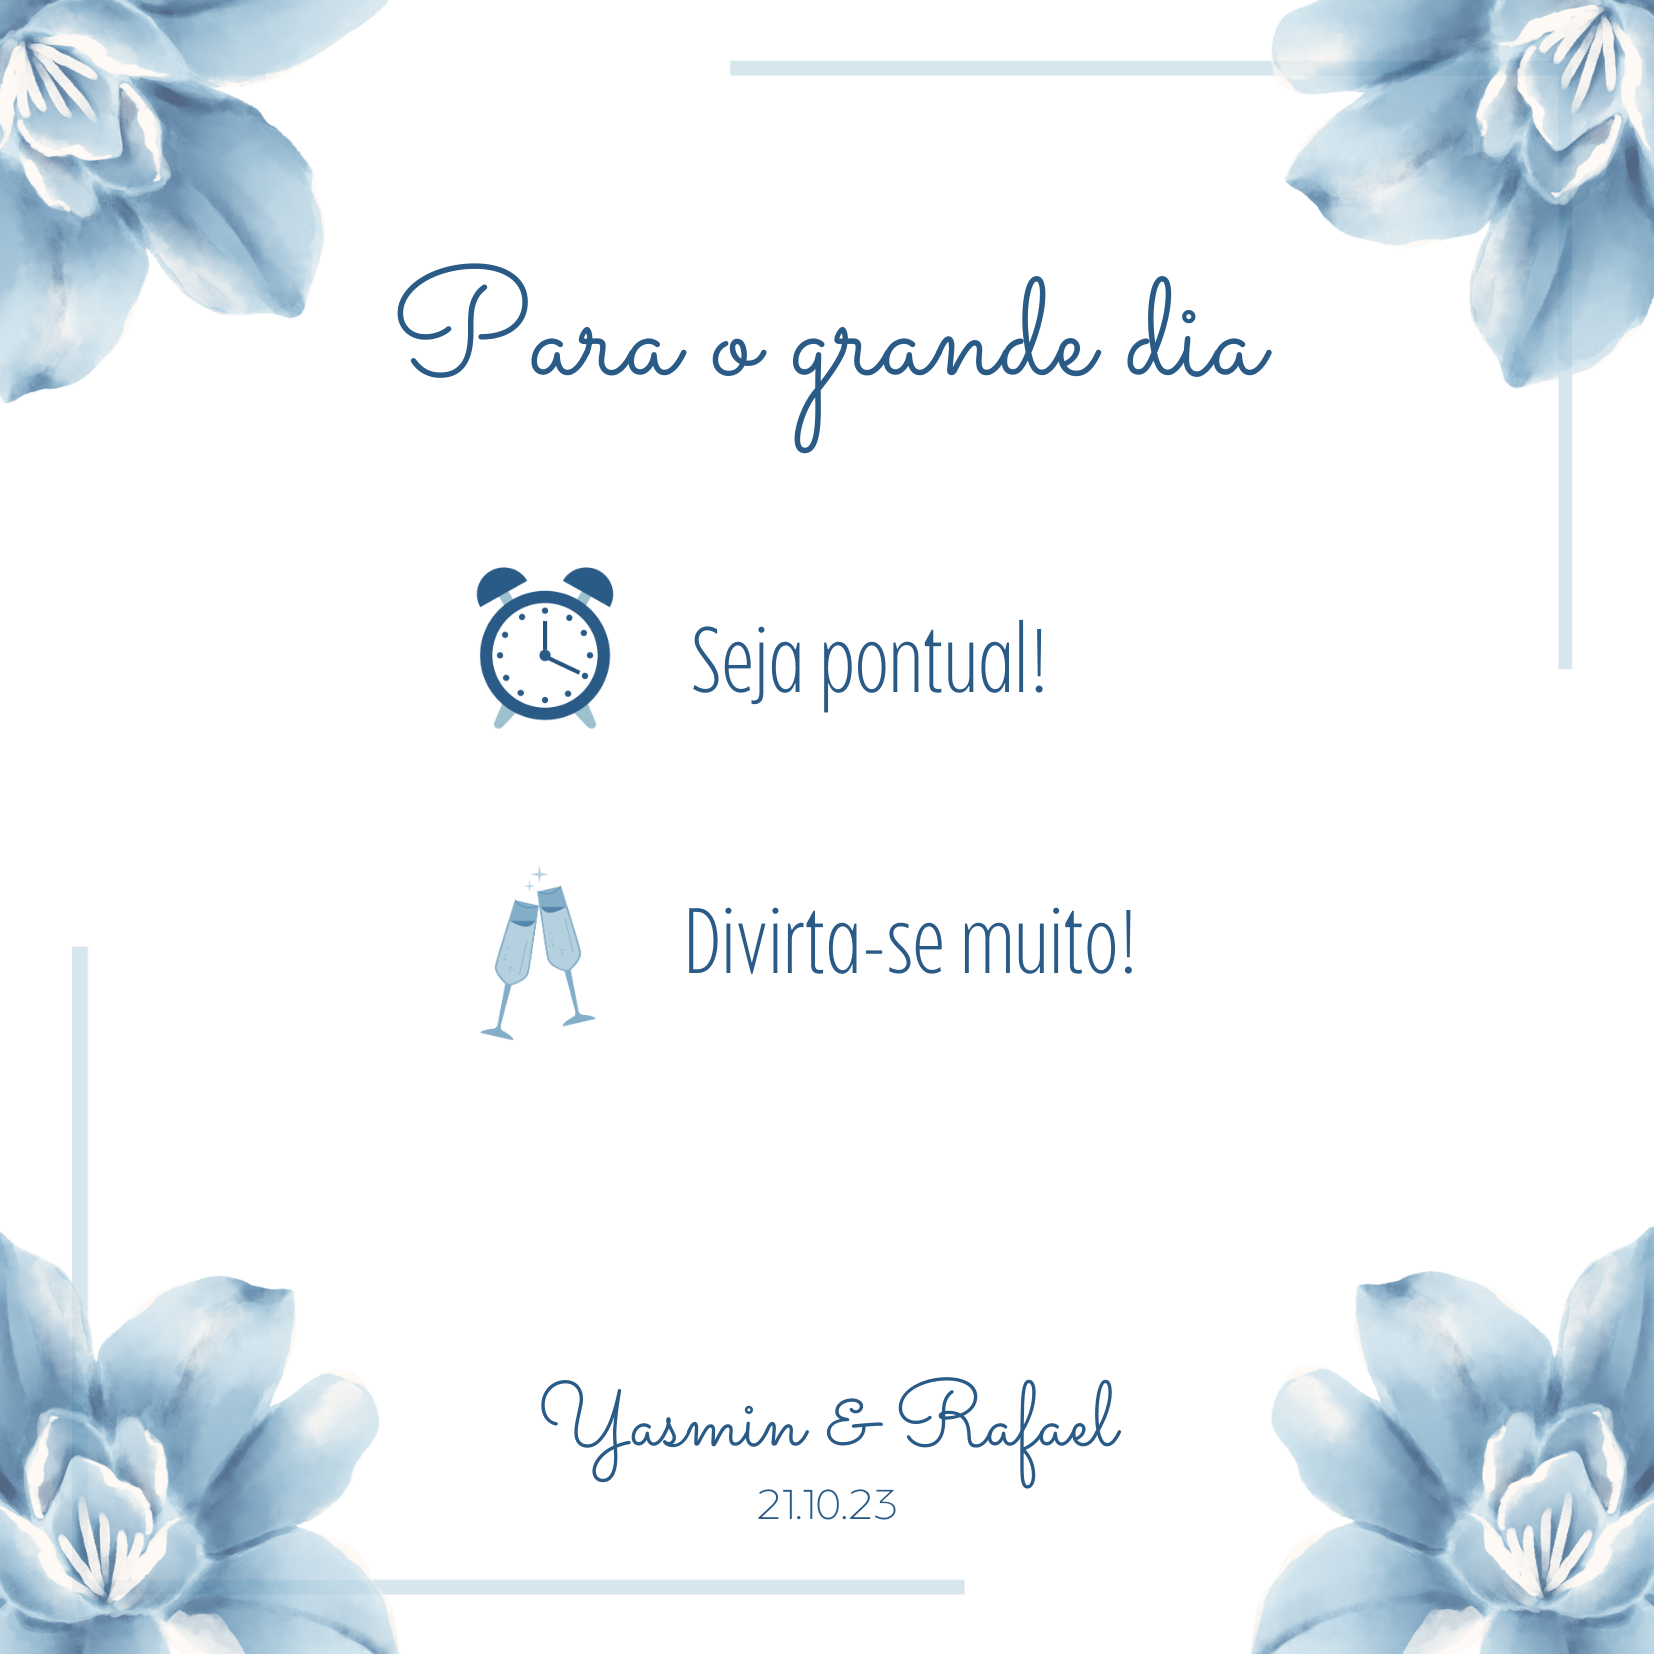
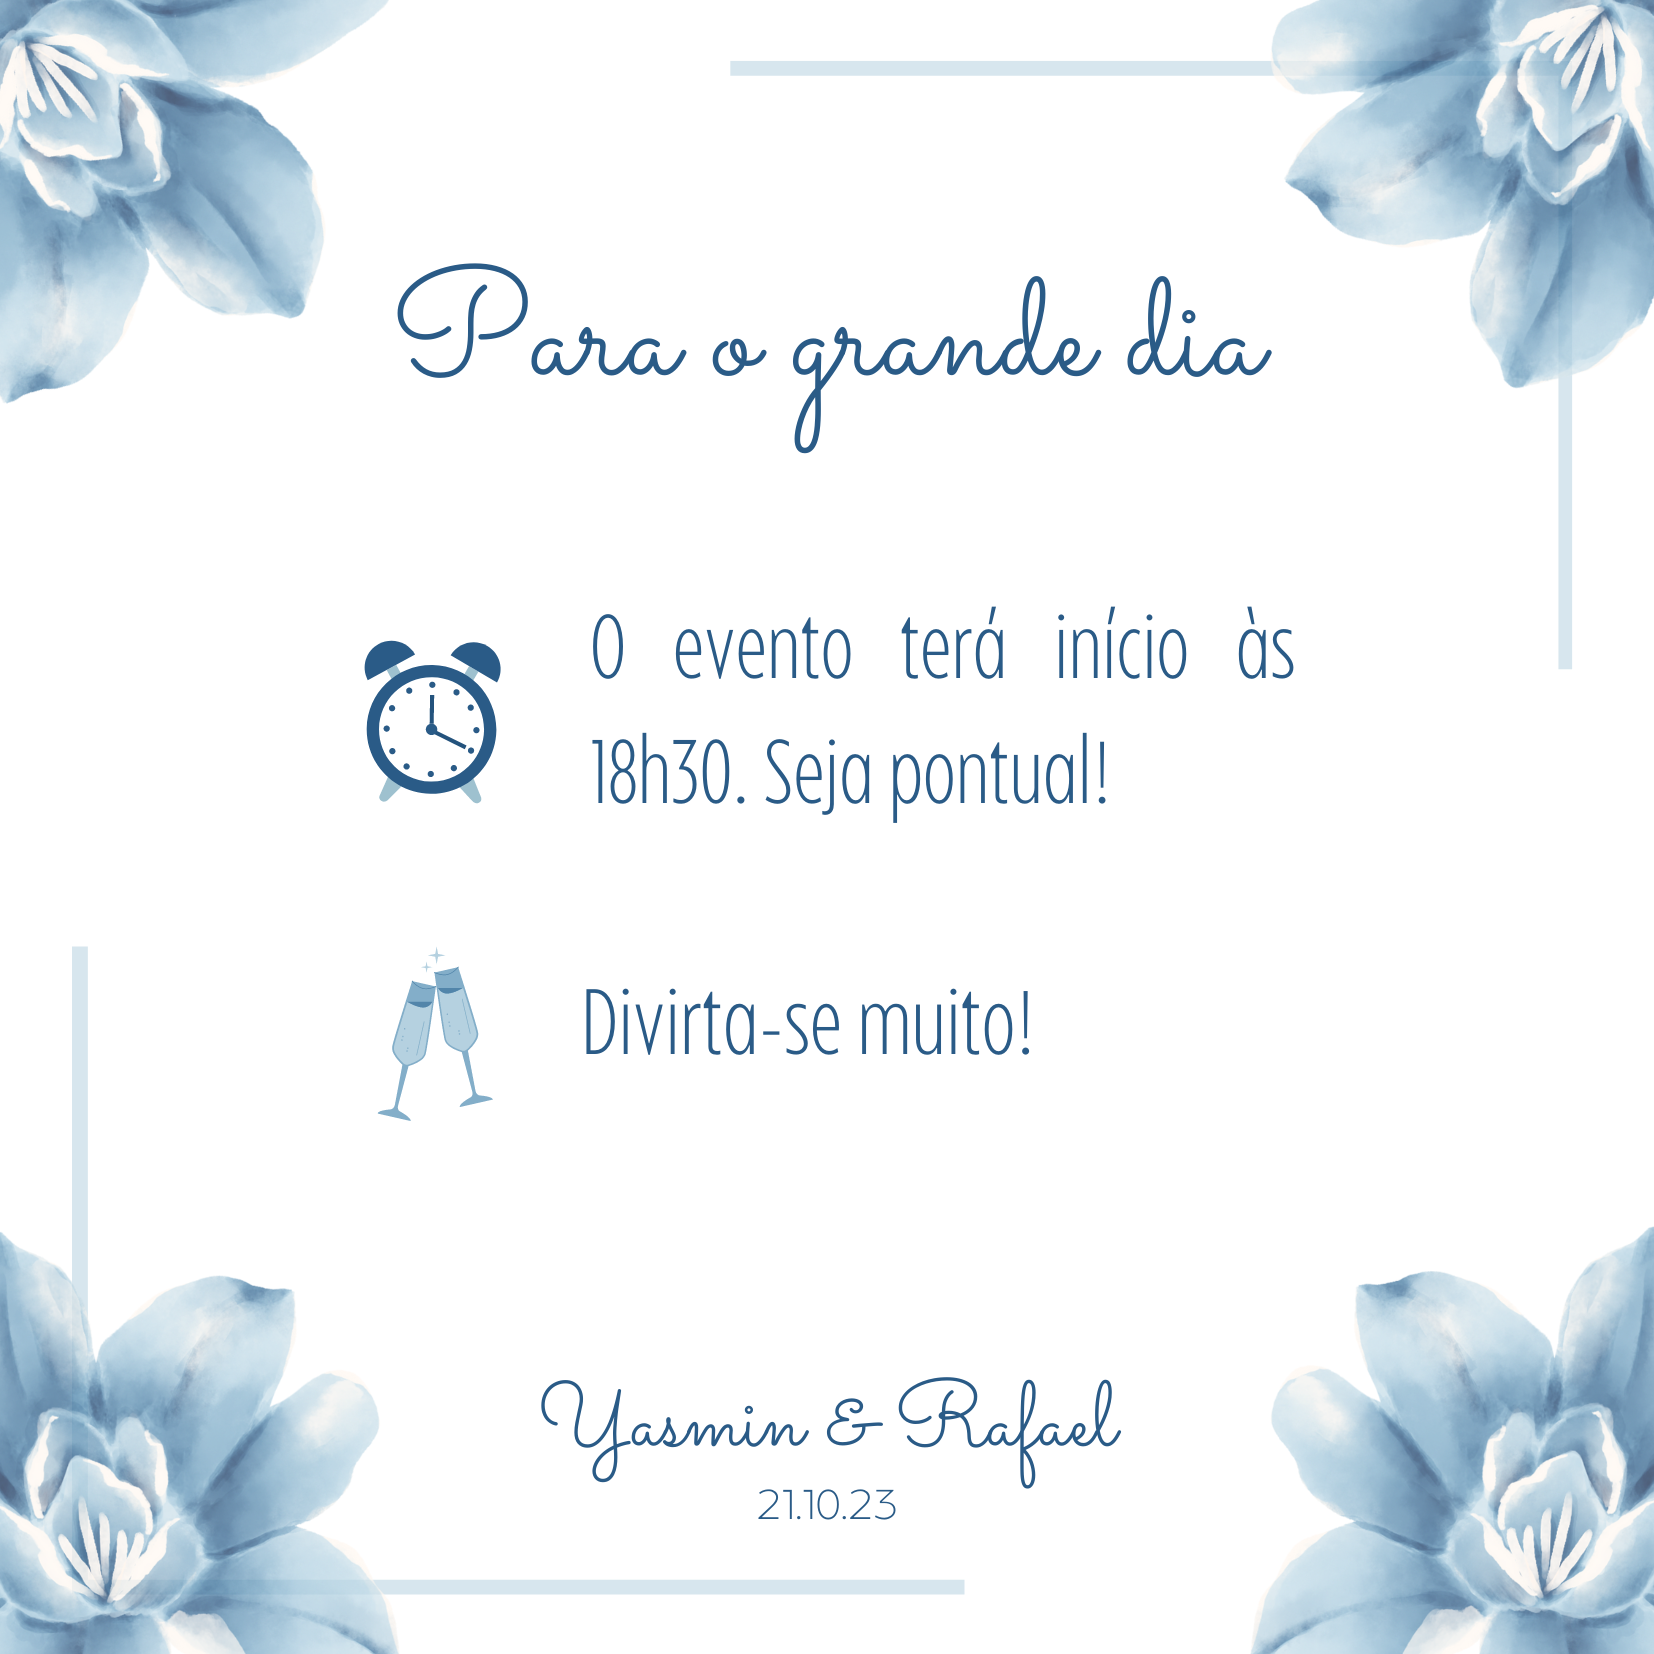
refactor: location page, home page, hide not ready pages

Changed region(s): [[0.2158, 0.3392, 0.7092, 0.4933], [0.2158, 0.5242, 0.6784, 0.6784], [0.74, 0.37, 0.7709, 0.4008]]

diff --git a/src/routes/location.component.jsx b/src/routes/location.component.jsx
@@ -1,35 +1,43 @@
-import {Container} from "react-bootstrap";
+import {Container, Image} from "react-bootstrap";
+import BistroMariaRosaPic from "../assets/bistro_maria_rosa.jpg"
 
 
 const LocationComponent = () => {
     return (
-        <Container className="justify-content-center">
+        <Container className="">
             <div className="main-title">
-                <div className="my-3 text-center">
-                    <h1 className="text-uppercase">Informações</h1>
-                </div>
+                <Container className={"mt-5"}>
+                    <div className={"row justify-content-center"}>
+                        <div className={"col main-location-info"}>
+                            <div className="text-center bg-white footer">
+                                <iframe
+                                    title="google-maps"
+                                    src="https://www.google.com/maps/embed?pb=!1m18!1m12!1m3!1d3659.59179456155!2d-46.62120694885336!3d-23.475184564227032!2m3!1f0!2f0!3f0!3m2!1i1024!2i768!4f13.1!3m3!1m2!1s0x94cef65b3c15c91b%3A0x677d762df0a68a05!2sAv.%20%C3%81gua%20Fria%2C%201608%20-%20Tucuruvi%2C%20S%C3%A3o%20Paulo%20-%20SP%2C%2002332-001!5e0!3m2!1sen!2sbr!4v1674128392155!5m2!1sen!2sbr"
+                                    style={{border: 0}} allowFullScreen="" loading="lazy"
+                                    referrerPolicy="no-referrer-when-downgrade"/>
+                            </div>
+                            <div className={"text-center"}>
+                                <Image
+                                    src={BistroMariaRosaPic}
+                                    alt={"bistro maria rosa faxada foto"}
+                                    className={"img-fluid rounded"}
+                                />
+                            </div>
+                        </div>
+                    </div>
+                </Container>
                 <div>
                     <div className="row mt-4">
                         <div className="text-center">
-                            <h3>Informações do Evento</h3>
                             <ul className="list-group list-group-flush">
-                                <li className="list-group-item">Av. Água Fria, 1608 - 02332-001</li>
-                                <li className="list-group-item">Outubro - 21.10.2023</li>
-                                <li className="list-group-item">18:00 às 21:00</li>
+                                <li className="list-group-item">Av. Água Fria, 1608 Tucuruvi, São Paulo S.P. - 02332-001</li>
+                                {/*<li className="list-group-item">Outubro - 21.10.2023</li>*/}
+                                {/*<li className="list-group-item">18:30 às 21:00</li>*/}
                             </ul>
                         </div>
                     </div>
                 </div>
             </div>
-            <Container>
-                <div className="text-center bg-white footer">
-                    <iframe
-                        title="google-maps"
-                        src="https://www.google.com/maps/embed?pb=!1m18!1m12!1m3!1d3659.59179456155!2d-46.62120694885336!3d-23.475184564227032!2m3!1f0!2f0!3f0!3m2!1i1024!2i768!4f13.1!3m3!1m2!1s0x94cef65b3c15c91b%3A0x677d762df0a68a05!2sAv.%20%C3%81gua%20Fria%2C%201608%20-%20Tucuruvi%2C%20S%C3%A3o%20Paulo%20-%20SP%2C%2002332-001!5e0!3m2!1sen!2sbr!4v1674128392155!5m2!1sen!2sbr"
-                        style={{border: 0}} allowFullScreen="" loading="lazy"
-                        referrerPolicy="no-referrer-when-downgrade"/>
-                </div>
-            </Container>
         </Container>
     );
 }

diff --git a/src/routes/header.component.jsx b/src/routes/header.component.jsx
@@ -17,15 +17,15 @@ const Header = () => {
                                 <Nav.Link href="/localizacao">
                                     <span className="bg-header-color menu-items">Local da Festa</span>
                                 </Nav.Link>
-                                <Nav.Link href="/confirmar-presenca">
-                                    <span className="bg-header-color menu-items">Confirmar Presença</span>
-                                </Nav.Link>
-                                <Nav.Link href="/manual-convidados">
-                                    <span className="bg-header-color menu-items">Manual do Convidado</span>
-                                </Nav.Link>
-                                <Nav.Link href="/lista-presentes">
-                                    <span className="bg-header-color menu-items">Lista de Presentes</span>
-                                </Nav.Link>
+                                {/*<Nav.Link href="/confirmar-presenca">*/}
+                                {/*    <span className="bg-header-color menu-items">Confirmar Presença</span>*/}
+                                {/*</Nav.Link>*/}
+                                {/*<Nav.Link href="/manual-convidados">*/}
+                                {/*    <span className="bg-header-color menu-items">Manual do Convidado</span>*/}
+                                {/*</Nav.Link>*/}
+                                {/*<Nav.Link href="/lista-presentes">*/}
+                                {/*    <span className="bg-header-color menu-items">Lista de Presentes</span>*/}
+                                {/*</Nav.Link>*/}
                             </Nav>
                         </Navbar.Collapse>
                     </Container>

diff --git a/src/components/count.component.jsx b/src/components/count.component.jsx
@@ -9,7 +9,7 @@ const CountComponent = () => {
     const [days, setDays] = useState(0);
 
     useEffect(() => {
-        const theDay = new Date("2023-10-21T18:00:00");
+        const theDay = new Date("2023-10-21T18:30:00");
         const interval = setInterval(() => {
             const today = new Date();
             const diff = theDay - today;
@@ -28,9 +28,9 @@ const CountComponent = () => {
 
     return (
         <Fragment>
-            <Container className="my-5 main-title" id="contagem-regressiga">
+            <Container className="my-2 main-title" id="contagem-regressiga">
                 <div className="text-center my-3">
-                    <h1 className={"text-black"}>Contagem Regressiva</h1>
+                    {/*<h1 className={"text-black"}>Contagem Regressiva</h1>*/}
                     <div id="countdown">
                         <ul>
                             <li><span id="days">{days}</span><div className={"text-black"}>Dias</div></li>

diff --git a/src/routes/styles.css b/src/routes/styles.css
@@ -109,14 +109,39 @@ nav a:hover {
   max-width: 350px;
 }
 
+.main-location-info img {
+  height: 350px;
+  width: 450px;
+}
+
+.main-location-info iframe {
+  height: 350px;
+  width: 450px;
+}
+
+.collage-main-page {
+  max-height: 450px;
+}
+
 @media all and (min-width: 1200px) {
   .fit-invitation {
-    max-width: 40% !important;
-    max-height: 40% !important;
+    max-width: 60% !important;
+    max-height: 60% !important;
   }
 }
 
 @media all and (max-width: 768px) {
+  .main-location-info iframe {
+    height: 200px;
+    width: 250px;
+  }
+  .main-location-info img {
+    height: 200px;
+    width: 250px;
+  }
+  .collage-main-page {
+    max-width: 100%;
+  }
   #countdown h1 {
     font-size: calc(1.5rem * var(--smaller));
   }

diff --git a/src/routes/footer.component.jsx b/src/routes/footer.component.jsx
@@ -8,10 +8,10 @@ const FooterComponent = () => {
                 bottom: 0, position: "fixed",
                 left: 0, width: "100%"
             }}>
-                <footer className="text-black text-center text-lg-start bg-serenity transparent-opacity">
+                <footer className="text-white text-center text-lg-start bg-serenity transparent-opacity">
                     <div className="text-center p-3">
                         © 2023 Copyright:
-                        <span className="text-black">yasmin.rafaellino.com.br</span>
+                        <span className="text-white">yasmin.rafaellino.com.br</span>
                     </div>
                 </footer>
             </footer>

diff --git a/src/routes/confirmacao-presenca.page.jsx b/src/routes/confirmacao-presenca.page.jsx
@@ -63,10 +63,11 @@ const ConfirmacaoPresencaPage = () => {
                 }
                 show={modalHandler}
             />
-            <div className="form-confirmar-presenca my-3">
+            <div className="form-confirmar-presenca my-3 main-title text-center text-uppercase">
                 <Alert key='danger' variant='danger' className={showAlert}>
                     {alertMessage}
                 </Alert>
+                <h3 className={"my-2"}>confirmação de presença</h3>
                 <Form onSubmit={handleSubmit}>
                     <Form.Group className="my-2">
                         <Form.Label>Nome Completo</Form.Label>

diff --git a/src/routes/home.component.jsx b/src/routes/home.component.jsx
@@ -15,7 +15,7 @@ const Home = () => {
                     <Image
                         src={MainCollage}
                         alt={"Yasmin and Rafael picture"}
-                        className={"img-fluid rounded"}
+                        className={"img-fluid rounded collage-main-page"}
                     />
                     <CountComponent/>
                 </div>

diff --git a/src/routes/lista-presentes.component.jsx b/src/routes/lista-presentes.component.jsx
@@ -13,7 +13,7 @@ const ListaPresentesComponent = () => {
 
     const handleClose = () => setModalHandler(false);
     const handleShow = () => setModalHandler(true);
-    const now = 1;
+    const now = 20;
 
     return (
         <Container>
